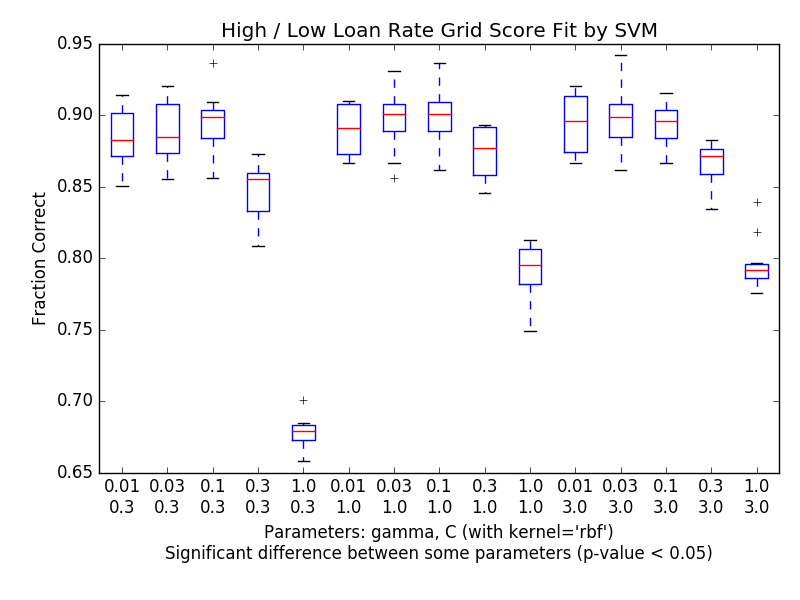
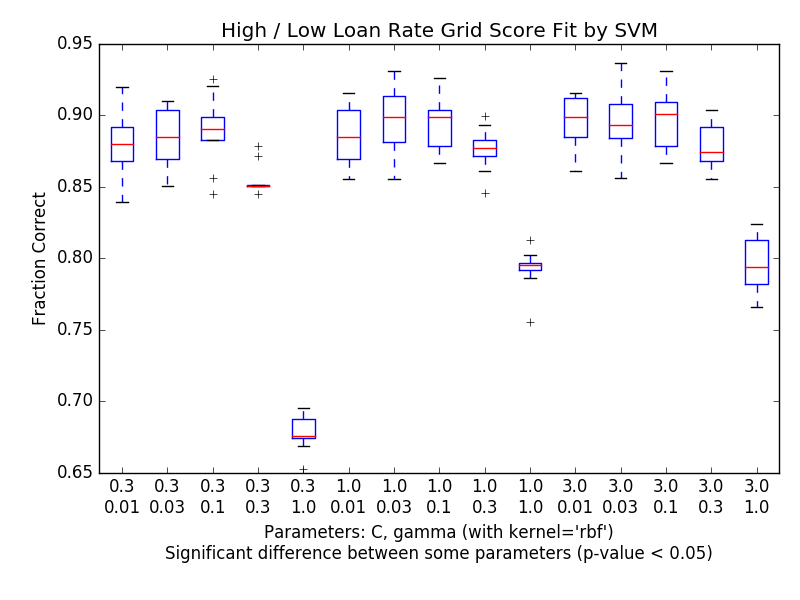
add boxplot for column opt

diff --git a/svm_predict.py b/svm_predict.py
@@ -24,9 +24,8 @@ def make_plotdir():
     return plotdir
 
 def gridscore_boxplot(gslist, plotdir, label, xlabel):
-    '''Boxplot of grid scores.'''
+    '''Set up boxplot of grid scores.'''
     vals = list(map(lambda e: e.cv_validation_scores, gslist))
-    is_sig = do_ttests(vals)
     labs = list(map(lambda e: list(e.parameters.values()), gslist))
     if len(labs[0]) > 1:
         labs = list(map(lambda e: reduce(lambda a,b: str(a)+"\n"+str(b), e), labs))
@@ -38,6 +37,13 @@ def gridscore_boxplot(gslist, plotdir, label, xlabel):
         xpar = reduce(lambda a,b: a+", "+b, xpar)
     else:
         xpar = xpar[0]
+    xlabel = "Parameters: " + xpar + " (with " + xlabel + ")"
+    plotfile = plotdir + "gridscore_" + label
+    do_boxplot(vals, labs, xlabel, plotfile)
+
+def do_boxplot(vals, labs, xlabel, plotfile):
+    '''Create boxplot of value arrays with t-tests.'''
+    is_sig = do_ttests(vals)
     if is_sig:
         sig = "Significant difference between some parameters (p-value < 0.05)"
     else:
@@ -45,10 +51,10 @@ def gridscore_boxplot(gslist, plotdir, label, xlabel):
     plt.clf()
     plt.boxplot(vals, labels=labs)
     plt.title("High / Low Loan Rate Grid Score Fit by SVM")
-    plt.xlabel("Parameters: " + xpar + " (with " + xlabel + ")\n" + sig)
+    plt.xlabel(xlabel + "\n" + sig)
     plt.ylabel("Fraction Correct")
     plt.tight_layout()
-    plt.savefig(plotdir + "gridscore_" + label)
+    plt.savefig(plotfile)
 
 def do_ttests(vals):
     '''Test if scores are significantly different using t-test statistics.'''
@@ -228,7 +234,7 @@ def cross_validate(loans_X, loans_y, print_out=False):
     if print_out:
         print("CV scores mean %.5f +- %.5f" % (score, 2.0 * score_std))
         print("CV raw scores", scores)
-    return score, score_std
+    return score, score_std, scores
 
 def get_cv_score(varlist, loans_df, loans_y):
     '''Get cross-validated score from scaled data
@@ -242,21 +248,21 @@ def random_opt(varlist, init_list, loans_df, loans_y):
        accept if score decreases to find local minimum.'''
 
     vlist = list(init_list)
-    score, sstd = get_cv_score(vlist, loans_df, loans_y)
+    score, vstd, vscores = get_cv_score(vlist, loans_df, loans_y)
     offset = len(vlist)  # offset by length of initial vlist
     indices = list(range(len(varlist) - offset))
     rnd.shuffle(indices)
     for ix in indices:
         ilist = list(vlist)
         ilist.append(varlist[ix + offset])
-        iscore, istd = get_cv_score(ilist, loans_df, loans_y)
+        iscore, istd, iscores = get_cv_score(ilist, loans_df, loans_y)
         if iscore > score:
             vlist = list(ilist)
-            score, sstd = iscore, istd
+            score, vstd, vscores = iscore, istd, iscores
 
-    print(">>> try len %d, score %.4f +- %.4f" % (len(vlist), score, sstd))
+    print(">>> try len %d, score %.4f +- %.4f" % (len(vlist), score, vstd))
     print("vlist %s" % (vlist))
-    return score, vlist
+    return score, vlist, vscores
 
 def run_opt(all_numeric_vars, loans_df, loans_y):
     '''Run randomized optimization with full list of independent numeric variables.
@@ -265,13 +271,19 @@ def run_opt(all_numeric_vars, loans_df, loans_y):
     print('\nall_vars', all_numeric_vars)
     init_list = [all_numeric_vars[0], all_numeric_vars[1]]
     opt_list = list(init_list)
-    opt_score, ostd = get_cv_score(opt_list, loans_df, loans_y)
+    opt_score, ostd, oscores = get_cv_score(opt_list, loans_df, loans_y)
+    opt_raw_list = []
     for ix in range(len(all_numeric_vars)):
-        score, vlist = random_opt(all_numeric_vars, init_list, loans_df, loans_y)
+        score, vlist, vscores = random_opt(all_numeric_vars, init_list, loans_df, loans_y)
+        opt_raw_list.append({'plen': len(vlist), 'pscores': vscores})
         if score > opt_score:
             opt_list = vlist
             opt_score = score
 
+    do_boxplot(list(map(lambda e: e['pscores'], opt_raw_list)), 
+        list(map(lambda e: e['plen'], opt_raw_list)), 
+        "Number of random optimized column names",
+        make_plotdir()+"opt_params_boxplot")
     print(">>> opt len %d, opt_score %.4f" % (len(opt_list), opt_score))
     print("opt_list %s" % (opt_list))
     return opt_score, opt_list
@@ -293,7 +305,7 @@ def main():
     
     # test optimization sub-method
     indep_vars = ['FICO.Score', 'Amount.Requested', 'Home.Type']
-    score, sstd = get_cv_score(indep_vars, loans_df, loans_y)
+    score, sstd, sscores = get_cv_score(indep_vars, loans_df, loans_y)
     print("cv score: %.5f +- %.5f for %s" % (score, sstd, indep_vars))
 
 #   run optimization routine    
